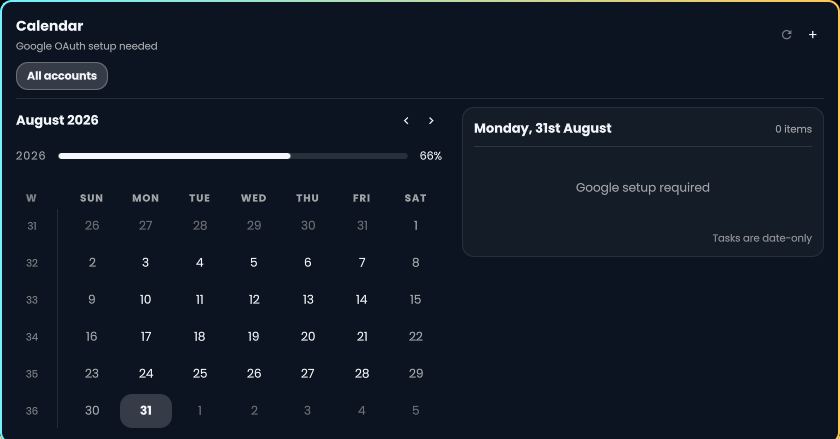
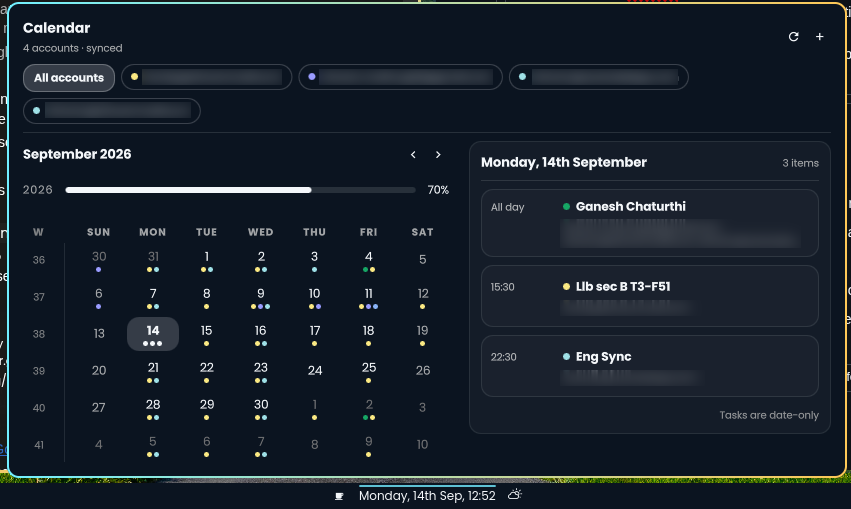
docs: simplify agent setup and refresh redacted screenshot

diff --git a/README.md b/README.md
@@ -13,6 +13,11 @@ Calendar and Tasks access is **read-only**. Event and task editing are not suppo
 
 ## Install
 
+**Ask your Omarchy agent:**
+
+> Install https://github.com/shivam-g10/omarchy-google-calendar using its README.
+> Help me connect my Google accounts.
+
 Requires Omarchy with plugin support, Rust/Cargo (edition 2024), SQLite,
 `pkg-config`, `secret-tool` (libsecret), `xdg-open` (xdg-utils), a browser,
 and a user systemd session.
@@ -41,6 +46,9 @@ Google OAuth apps in Testing can require sign-in again after seven days.
 See [setup details](docs/google-oauth.md).
 
 ## Agent and CLI access
+
+Ask your local agent: **“What does my day look like?”** or **“When is X's
+birthday?”** Birthdays must be present in a connected calendar.
 
 ```bash
 omarchy-calendar agenda list       # Today's events and tasks
